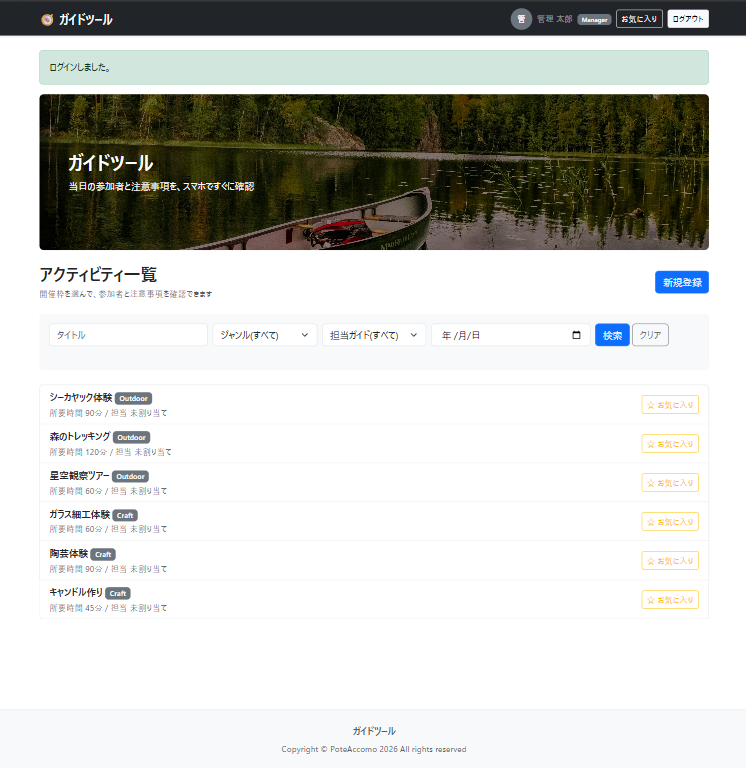
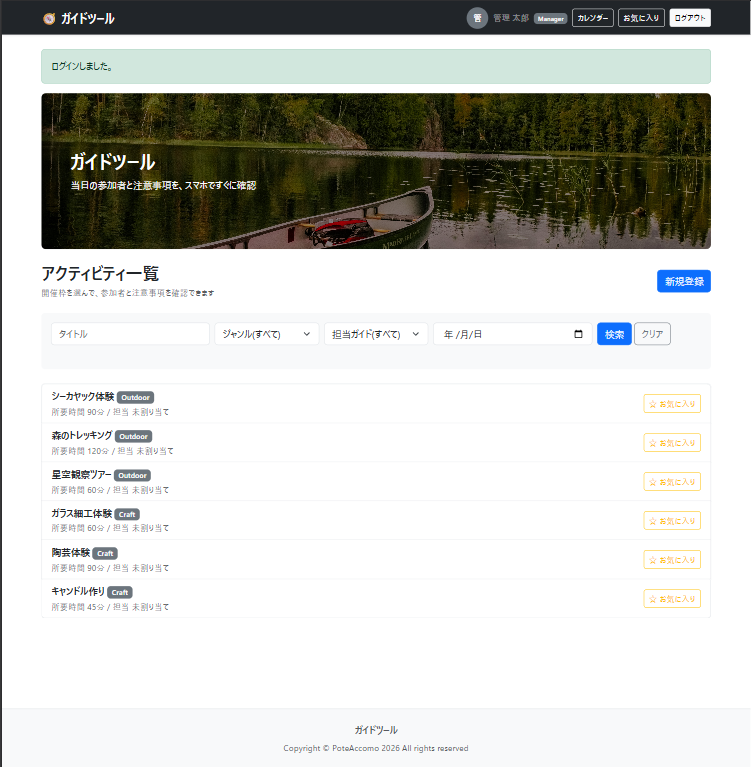
READMEの修正

diff --git a/README.md b/README.md
@@ -39,10 +39,11 @@
 - スマホ対応のレスポンシブデザイン
 - アクティビティごとの担当ガイドの設定・表示
 - 開催枠ごとの担当ガイドの割り当てと、自分の担当枠だけを表示する「自分の担当」ページ
+- 開催枠のカレンダー表示(注意事項ありの枠を色分け)
 
 | ホーム | アクティビティの開催枠一覧 | 開催枠の詳細 | スマホ表示 |
 |---|---|---|---|
-| ![ホーム](app/assets/images/home.png) | ![開催枠一覧](app/assets/images/activity_show.png) | ![詳細](app/assets/images/timeslot_show.png) | ![スマホ](app/assets/images/phone_home.png) |
+| ![ホーム](app/assets/images/home.png) | ![開催枠一覧](app/assets/images/activity_show.png) | ![詳細](app/assets/images/timeslot_show.png) | ![カレンダー](app/assets/images/calendars.png) | ![スマホホーム](app/assets/images/phone_home.png) | ![スマホカレンダー](app/assets/images/phone_calendars.png) |
 
 ## 工夫した点
 
@@ -158,7 +159,6 @@ bundle exec rspec
 
 ## 今後の改善案
 
-- 開催枠のカレンダー表示(注意事項ありの枠を色分け)
 - 同じガイドの時間が重なる枠への割り当て警告
 - 注意事項を複数登録できるようにする(`cautions` テーブルの分離)
 - 天候による催行判断の記録
